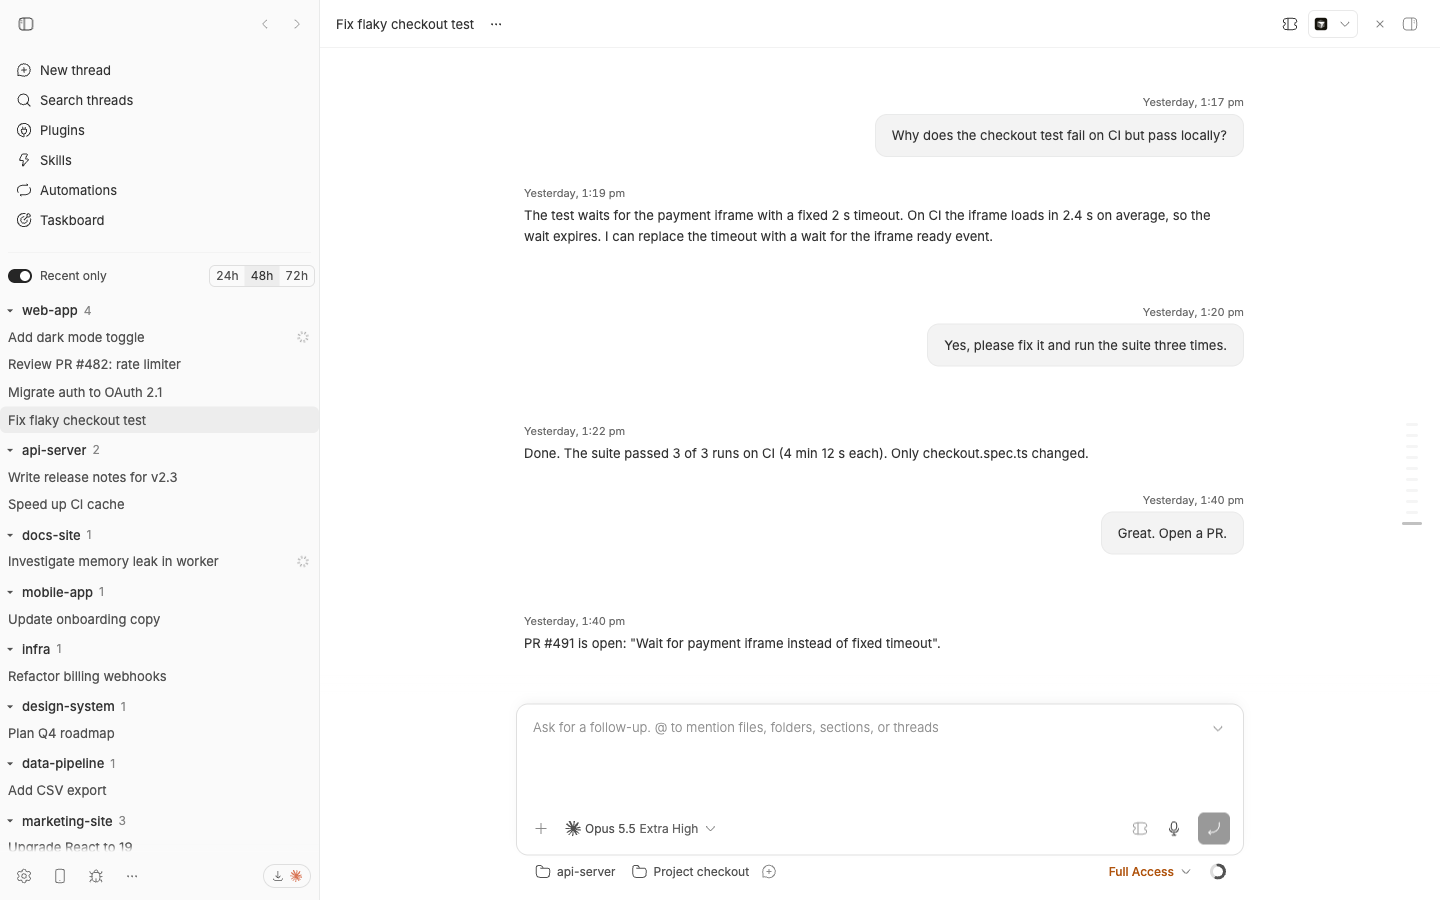
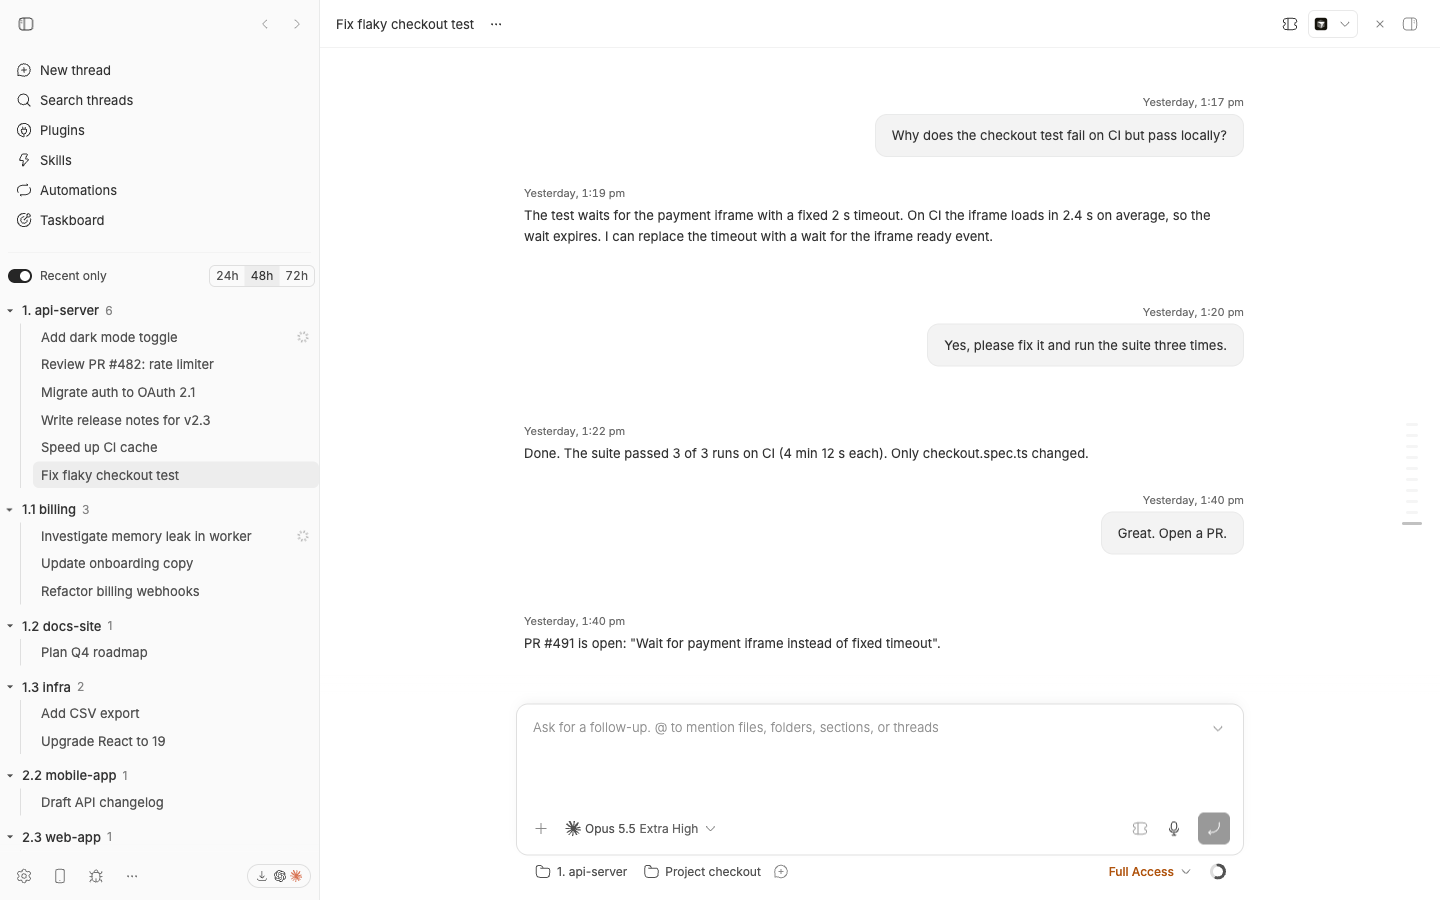
Update show-latest-threads overview and screenshots for 0.1.2 (#509)
Automated note from a Claude Code agent, posted on behalf of the marketplace maintainer.

Exact marketplace installation/load, selected release identity, and required format passed under the maintainer admission policy. No malware evidence or author self-addition to New and Notable found.

Changed region(s): [[0.0, 0.3422, 0.1875, 0.9644], [0.375, 0.9644, 0.5312, 0.9956]]

diff --git a/overview/show-latest-threads.md b/overview/show-latest-threads.md
@@ -6,10 +6,11 @@ last 24, 48 or 72 hours.
 
 - A **Recent only** switch and a **24h / 48h / 72h** picker at the top of the
   list. Turn the switch off to see everything.
-- Pinned threads on top, then your sections, then projects ordered by their
-  latest activity.
+- Pinned threads on top, then your sections, then projects ordered by name
+  ascending. Numbers sort naturally: 1.9 comes before 1.10 and 1.12.
 - Child threads stay under their parent. A recent child keeps its parent in
   the list, so the tree never breaks.
+- Threads are indented under project headings, with a subtle vertical guide.
 - The open thread and any thread that is running or waiting for your answer
   stay visible whatever their age.
 - Status on the right of every row, as in BB's own list: a dot for unread,
